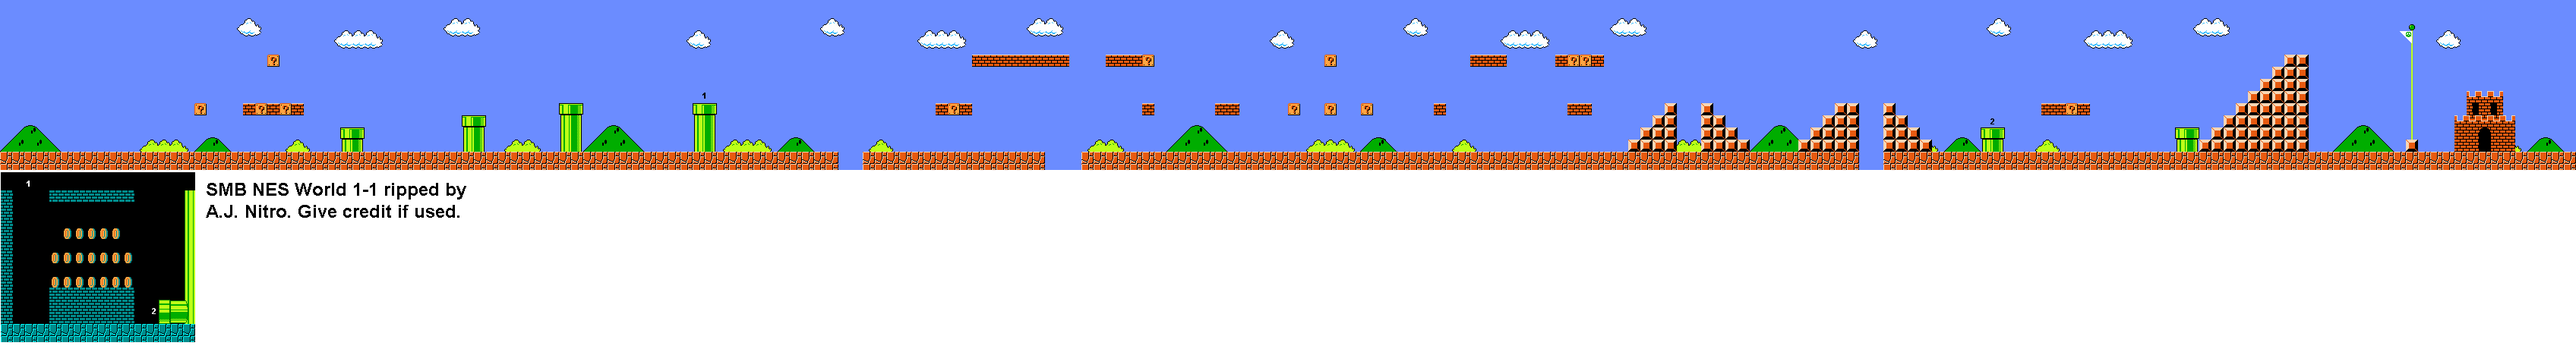
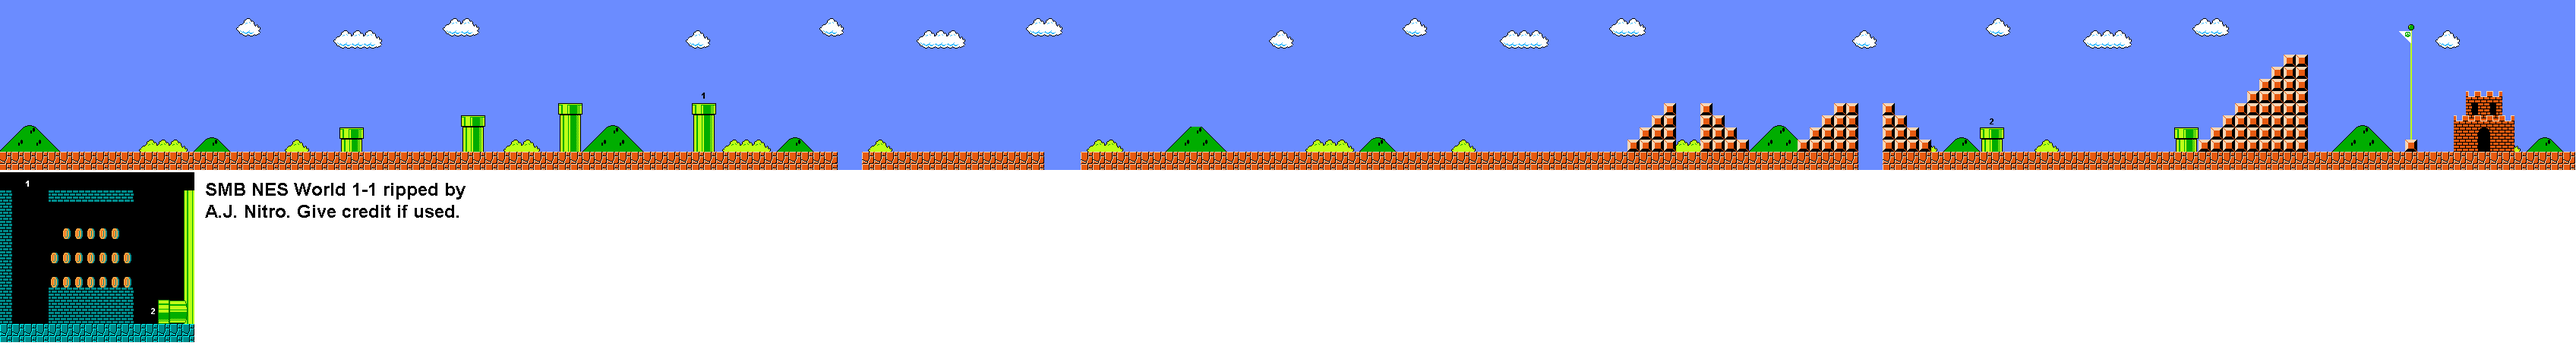
Added floating coinblocks and bricks
Still need to do proper collision

diff --git a/game.py b/game.py
@@ -36,7 +36,8 @@ class Game():
         self.pipes = Group()
         self.ground = Group()
         self.steps = Group()
-        self.floatBricks = Group()
+        self.coinBlocks = Group()
+        self.brickBlocks = Group()
         self.createblocks()
         
     def play(self):
@@ -55,7 +56,8 @@ class Game():
         # self.ground.draw(self.level)
         # self.steps.draw(self.level)
         # /DEBUG
-        self.floatBricks.draw(self.level)
+        self.coinBlocks.draw(self.level)
+        self.brickBlocks.draw(self.level)
         self.player.blitMario()
         self.screen.blit(self.level, (0, 0), self.gamesettings.camera)
         self.stats.blitstats()
@@ -75,7 +77,10 @@ class Game():
         for ground in collided:
             self.player.rect.bottom = ground.rect.top
 
-        collided = pygame.sprite.spritecollide(self.player, self.floatBricks, False, False)
+        collided = pygame.sprite.spritecollide(self.player, self.coinBlocks, False, False)
+        for brick in collided:
+            brick.movingUp = True
+        collided = pygame.sprite.spritecollide(self.player, self.brickBlocks, False, False)
         for brick in collided:
             brick.movingUp = True
 
@@ -127,13 +132,102 @@ class Game():
         self.steps.add(blockRect(2895+112, 182-112, 16, 128, self.gamesettings.scale))
         self.steps.add(blockRect(2895+128, 182-112, 16, 128, self.gamesettings.scale))
 
-        # Create floating blocks
-        self.floatBricks.add(FloatBlock(150, 180, 16, 16, 272, 112, self.gamesettings.scale))
+        # Create floating coin blocks
+        self.coinBlocks.add(FloatBlock(255, 136, 16, 16, 80, 112, self.gamesettings.scale))
+        self.coinBlocks.add(FloatBlock(333, 136, 16, 16, 80, 112, self.gamesettings.scale))
+        self.coinBlocks.add(FloatBlock(333+32, 136, 16, 16, 80, 112, self.gamesettings.scale))
+        self.coinBlocks.add(FloatBlock(351, 72, 16, 16, 80, 112, self.gamesettings.scale))
+        self.coinBlocks.add(FloatBlock(1247, 136, 16, 16, 80, 112, self.gamesettings.scale))
+        self.coinBlocks.add(FloatBlock(1503, 72, 16, 16, 80, 112, self.gamesettings.scale))
+        self.coinBlocks.add(FloatBlock(1695, 136, 16, 16, 80, 112, self.gamesettings.scale))
+        self.coinBlocks.add(FloatBlock(1743, 136, 16, 16, 80, 112, self.gamesettings.scale))
+        self.coinBlocks.add(FloatBlock(1743, 72, 16, 16, 80, 112, self.gamesettings.scale))
+        self.coinBlocks.add(FloatBlock(1791, 136, 16, 16, 80, 112, self.gamesettings.scale))
+        self.coinBlocks.add(FloatBlock(2063, 72, 16, 16, 80, 112, self.gamesettings.scale))
+        self.coinBlocks.add(FloatBlock(2063+16, 72, 16, 16, 80, 112, self.gamesettings.scale))
+        self.coinBlocks.add(FloatBlock(2719, 136, 16, 16, 80, 112, self.gamesettings.scale))
+
+        # Create floating brick blocks
+        self.brickBlocks.add(FloatBlock(317, 136, 16, 16, 272, 112, self.gamesettings.scale))
+        self.brickBlocks.add(FloatBlock(317+32, 136, 16, 16, 272, 112, self.gamesettings.scale))
+        self.brickBlocks.add(FloatBlock(317+64, 136, 16, 16, 272, 112, self.gamesettings.scale))
+        self.brickBlocks.add(FloatBlock(1231, 136, 16, 16, 272, 112, self.gamesettings.scale))
+        self.brickBlocks.add(FloatBlock(1231+32, 136, 16, 16, 272, 112, self.gamesettings.scale))
+
+        self.brickBlocks.add(FloatBlock(1279, 72, 16, 16, 272, 112, self.gamesettings.scale))
+        self.brickBlocks.add(FloatBlock(1279+16, 72, 16, 16, 272, 112, self.gamesettings.scale))
+        self.brickBlocks.add(FloatBlock(1279+32, 72, 16, 16, 272, 112, self.gamesettings.scale))
+        self.brickBlocks.add(FloatBlock(1279+48, 72, 16, 16, 272, 112, self.gamesettings.scale))
+        self.brickBlocks.add(FloatBlock(1279+64, 72, 16, 16, 272, 112, self.gamesettings.scale))
+        self.brickBlocks.add(FloatBlock(1279+80, 72, 16, 16, 272, 112, self.gamesettings.scale))
+        self.brickBlocks.add(FloatBlock(1279+96, 72, 16, 16, 272, 112, self.gamesettings.scale))
+        self.brickBlocks.add(FloatBlock(1279+112, 72, 16, 16, 272, 112, self.gamesettings.scale))
+
+        self.brickBlocks.add(FloatBlock(1455, 72, 16, 16, 272, 112, self.gamesettings.scale))
+        self.brickBlocks.add(FloatBlock(1455+16, 72, 16, 16, 272, 112, self.gamesettings.scale))
+        self.brickBlocks.add(FloatBlock(1455+32, 72, 16, 16, 272, 112, self.gamesettings.scale))
+
+        self.brickBlocks.add(FloatBlock(1503, 136, 16, 16, 272, 112, self.gamesettings.scale))
+        self.brickBlocks.add(FloatBlock(1599, 136, 16, 16, 272, 112, self.gamesettings.scale))
+        self.brickBlocks.add(FloatBlock(1599+16, 136, 16, 16, 272, 112, self.gamesettings.scale))
+
+        self.brickBlocks.add(FloatBlock(1887, 136, 16, 16, 272, 112, self.gamesettings.scale))
+        self.brickBlocks.add(FloatBlock(1935, 72, 16, 16, 272, 112, self.gamesettings.scale))
+        self.brickBlocks.add(FloatBlock(1935+16, 72, 16, 16, 272, 112, self.gamesettings.scale))
+        self.brickBlocks.add(FloatBlock(1935+32, 72, 16, 16, 272, 112, self.gamesettings.scale))
+
+        self.brickBlocks.add(FloatBlock(2047, 72, 16, 16, 272, 112, self.gamesettings.scale))
+        self.brickBlocks.add(FloatBlock(2047+48, 72, 16, 16, 272, 112, self.gamesettings.scale))
+
+        self.brickBlocks.add(FloatBlock(2063, 136, 16, 16, 272, 112, self.gamesettings.scale))
+        self.brickBlocks.add(FloatBlock(2063+16, 136, 16, 16, 272, 112, self.gamesettings.scale))
+
+        self.brickBlocks.add(FloatBlock(2687, 136, 16, 16, 272, 112, self.gamesettings.scale))
+        self.brickBlocks.add(FloatBlock(2687+16, 136, 16, 16, 272, 112, self.gamesettings.scale))
+        self.brickBlocks.add(FloatBlock(2687+48, 136, 16, 16, 272, 112, self.gamesettings.scale))
+
+
+
+
+
+
+
+
+
+
+
+
+
+
+
+
+
+
+
+
+
+
+
+
+
+
+
+
+
+
+
+
+
+
+
+
 
     def update(self):
         self.checkCollision()
         self.player.update()
-        for brick in self.floatBricks:
+        for brick in self.coinBlocks:
+            brick.update()
+        for brick in self.brickBlocks:
             brick.update()
 
 
